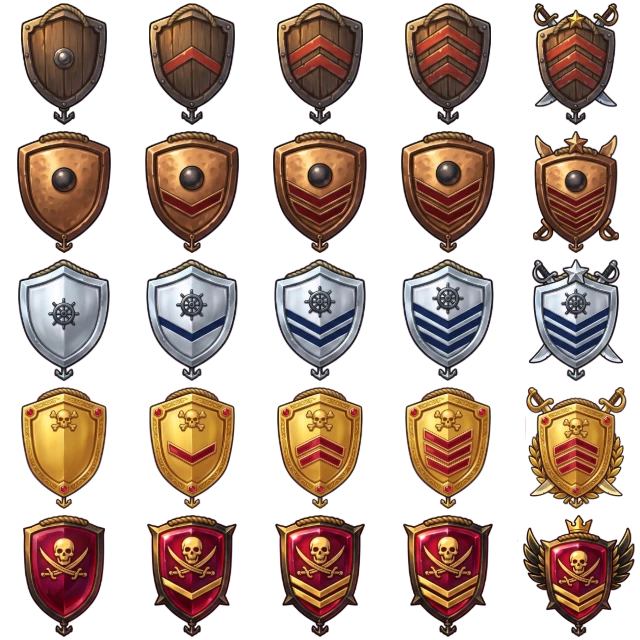
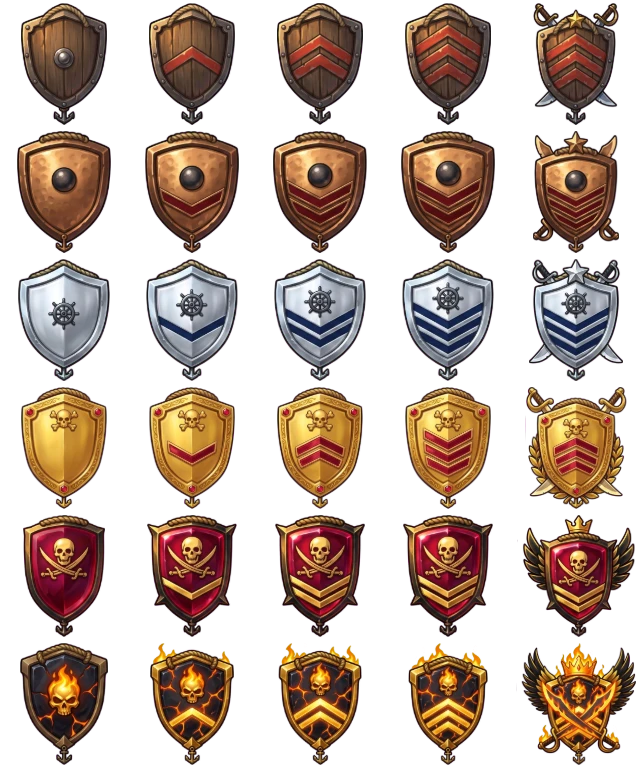
Legend-tier rank badges and rank medal collection (#199)
Claude-Session: https://claude.ai/code/session_01Mc9BhaSSsCCxzjNzAUDeqJ

diff --git a/src/main.ts b/src/main.ts
@@ -21,7 +21,7 @@ import {redeem,loadRedeemed,saveRedeemed,rewardText} from './coupons';
 import {loadLog,saveLog,addLog,daySummary,LOG_KINDS,type LogKind,type LogEntry} from './logbook';
 import {BALL_DAMAGE,CHAIN_FACTOR,FIRE_DOT_SHARE,ELITE_POINTS_PER_BALL,ELITE_MAX_LEVEL,eliteLevelEp,eliteLevelFromEp,ABILITIES,SPECIAL_AMMO,MINE,SPEED_BOOST,CONSUMABLES,AMMO_PRICES,SUPPLY_PRICES,loadArsenal,saveArsenal,type AbilityId,type SpecialAmmo,type ConsumableId,type SupplyId,type Price,priceOf} from './arsenal';
 import {loadFleetOwners,saveFleetOwners,loadRuins,markRuin,ruinLeft,ruinLabel,clearRuins} from './conquest';
-import {RIVAL_SP,battleRank,loadRivalLog,claimRivalSp,dayKey,RANK_SHEET,RANK_COLS,RANK_ICONS,rankIcon} from './battle';
+import {RIVAL_SP,battleRank,loadRivalLog,claimRivalSp,dayKey,RANK_SHEET,RANK_COLS,RANK_ICONS,rankIcon,BATTLE_RANKS} from './battle';
 import {setupChat} from './chat';
 import {SIEGE_MS,WALL_TOWERS,INNER_TOWERS,gateOf,gateLeft,siegeWindow,newSiege,loadSiege,saveSiege,siegePhase,siegeStats,siegeProgress,contribReward,earnsChest,victoryChest,ranking,loadTitle,grantTitle,HERO_TITLE,type SiegeSave} from './siege';
 import {dayEvent,spMult,xpMult,epMult,goldMult,sparkleMult,bossKillsNeeded,untilMidnight} from './events';
@@ -101,7 +101,7 @@ document.querySelector<HTMLDivElement>('#app')!.innerHTML = `
       <div class="sink-notices" id="sinkNotices" role="status" aria-live="polite"></div>
       <div class="toast" id="toast"></div>
       <div class="portal-prompt" id="portalPrompt"></div><div class="quest-overlay daily-overlay" id="dailyOverlay"><section class="daily-window"><header><div><span class="eyebrow">Her gün gel, ödül büyüsün</span><h2>GÜNLÜK ÖDÜL</h2></div><button id="closeDaily" aria-label="Kapat">×</button></header><div class="daily-grid" id="dailyGrid"></div><p class="daily-note" id="dailyNote"></p></section></div><button class="dig-prompt" id="digPrompt"><img src="/assets/icon-treasure-map-v3.webp" alt="" draggable="false"/><span>HAZİNEYİ KAZ</span><i><em id="digBar"></em></i></button><div class="event-panel" id="eventPanel"></div><div class="quest-overlay world-overlay" id="worldMapOverlay"><section class="world-scroll" aria-label="Dünya haritası"><button class="scroll-close" id="closeWorldMap" aria-label="Dünya haritasını kapat">×</button><div class="world-chart" id="worldChart"></div><div id="worldInfo" hidden></div></section></div><div class="quest-overlay" id="questOverlay"><section class="quest-log"><header><div><span class="eyebrow">Kaptanın görev defteri</span><h2>DENİZ GÖREVLERİ</h2></div><button id="closeQuests" aria-label="Görevleri kapat">×</button></header><p class="quest-intro">1 aktif görev · Tekrar süresi: ${QUEST_COOLDOWN_MS/3_600_000} saat</p><div class="quest-list" id="questList"></div></section></div>
-      <div class="captain-overlay" id="captainOverlay"><section class="captain-profile"><header><div><span class="eyebrow">Oyuncu profili</span><h2 id="captainName">KAPTAN</h2></div><button id="closeCaptain" aria-label="Kaptan profilini kapat">×</button></header><div class="captain-tab" id="captainTab-profile"><div class="captain-identity"><div class="captain-portrait"><img src="/assets/icon-hat-v2.webp" alt="" draggable="false"/><b id="captainLevel">1</b></div><div><span>AMİRAL GEMİSİ</span><strong>Yedi Deniz</strong><small>Gölgeler Denizi Kaptanı</small></div></div><div class="captain-nick" id="captainNick"></div><div class="captain-stat-grid"><article><span>TECRÜBE PUANI</span><b id="xpText">0 / 100</b><i class="xp"><em id="xpBar"></em></i></article><article><span>CAN PUANI</span><b id="hpText">100 / 100</b><i class="hp"><em id="hpBar" style="width:100%"></em></i></article><article><span>ELİT PUAN</span><b id="profileElite">0 / 100</b><i class="elite"><em id="profileEliteBar"></em></i></article><article><span>SAVAŞ PUANI</span><b id="profileBattle">0 / 500</b><i class="battle"><em id="profileBattleBar"></em></i></article></div><div class="bonus-summary" id="bonusSummary"></div><section class="captain-medals"><header><span class="eyebrow">Madalyalar ve kalıcı bonuslar</span><p class="ach-summary" id="achSummary"></p></header><div class="ach-grid" id="achGrid"></div></section></div></section></div><div class="captain-overlay" id="guildOverlay"><section class="captain-profile crew-window guild-window"><header><div><span class="eyebrow">Filo hazinesi ve ada kuleleri</span><h2>FİLO</h2></div><button id="closeGuild" aria-label="Filo penceresini kapat">×</button></header><div id="guildPanel"></div></section></div><div class="captain-overlay" id="crewOverlay"><section class="captain-profile crew-window"><header><div><span class="eyebrow">Geminin subayları</span><h2>TAYFA</h2></div><button id="closeCrew" aria-label="Tayfayı kapat">×</button></header><div id="crewPanel"></div></section></div><div class="quest-overlay" id="logOverlay"><section class="quest-log log-window"><header><div><span class="eyebrow">Kaptanın günlüğü</span><h2>SEYİR DEFTERİ</h2></div><button id="closeLog" aria-label="Seyir defterini kapat">×</button></header><div id="logPanel"></div></section></div><div class="quest-overlay" id="rankOverlay"><section class="quest-log rank-log"><header><div><span class="eyebrow">Denizlerin en iyileri</span><h2>SIRALAMALAR</h2></div><button id="closeRanks" aria-label="Sıralamaları kapat">×</button></header><div id="rankPanel"></div></section></div><div class="quest-overlay" id="couponOverlay"><section class="quest-log coupon-log"><header><div><span class="eyebrow">Etkinlik ödülleri</span><h2>KUPON KODU</h2></div><button id="closeCoupon" aria-label="Kupon penceresini kapat">×</button></header><p class="quest-intro">Etkinliklerde ve duyurularda paylaşılan kodu gir, ödülün hemen hesabına eklensin. Her kod bir kez kullanılır.</p><div class="coupon-form"><input id="couponInput" maxlength="32" placeholder="KUPON KODU" autocomplete="off" spellcheck="false"/><button id="couponRedeem">KULLAN</button></div><p class="coupon-result" id="couponResult"></p></section></div><div class="quest-overlay" id="settingsOverlay"><section class="quest-log settings-log"><header><div><span class="eyebrow">Oyun tercihleri</span><h2>AYARLAR</h2></div><button id="closeSettings" aria-label="Ayarları kapat">×</button></header><div id="settingsPanel"></div></section></div>
+      <div class="captain-overlay" id="captainOverlay"><section class="captain-profile"><header><div><span class="eyebrow">Oyuncu profili</span><h2 id="captainName">KAPTAN</h2></div><button id="closeCaptain" aria-label="Kaptan profilini kapat">×</button></header><div class="captain-tab" id="captainTab-profile"><div class="captain-identity"><div class="captain-portrait"><img src="/assets/icon-hat-v2.webp" alt="" draggable="false"/><b id="captainLevel">1</b></div><div><span>AMİRAL GEMİSİ</span><strong>Yedi Deniz</strong><small>Gölgeler Denizi Kaptanı</small></div></div><div class="captain-nick" id="captainNick"></div><div class="captain-stat-grid"><article><span>TECRÜBE PUANI</span><b id="xpText">0 / 100</b><i class="xp"><em id="xpBar"></em></i></article><article><span>CAN PUANI</span><b id="hpText">100 / 100</b><i class="hp"><em id="hpBar" style="width:100%"></em></i></article><article><span>ELİT PUAN</span><b id="profileElite">0 / 100</b><i class="elite"><em id="profileEliteBar"></em></i></article><article><span>SAVAŞ PUANI</span><b id="profileBattle">0 / 500</b><i class="battle"><em id="profileBattleBar"></em></i></article></div><div class="bonus-summary" id="bonusSummary"></div><section class="rank-medals"><header><span class="eyebrow">Savaş rütbesi madalyaları</span><p class="ach-summary" id="rankMedalSummary"></p></header><div class="rank-medal-grid" id="rankMedals"></div></section><section class="captain-medals"><header><span class="eyebrow">Madalyalar ve kalıcı bonuslar</span><p class="ach-summary" id="achSummary"></p></header><div class="ach-grid" id="achGrid"></div></section></div></section></div><div class="captain-overlay" id="guildOverlay"><section class="captain-profile crew-window guild-window"><header><div><span class="eyebrow">Filo hazinesi ve ada kuleleri</span><h2>FİLO</h2></div><button id="closeGuild" aria-label="Filo penceresini kapat">×</button></header><div id="guildPanel"></div></section></div><div class="captain-overlay" id="crewOverlay"><section class="captain-profile crew-window"><header><div><span class="eyebrow">Geminin subayları</span><h2>TAYFA</h2></div><button id="closeCrew" aria-label="Tayfayı kapat">×</button></header><div id="crewPanel"></div></section></div><div class="quest-overlay" id="logOverlay"><section class="quest-log log-window"><header><div><span class="eyebrow">Kaptanın günlüğü</span><h2>SEYİR DEFTERİ</h2></div><button id="closeLog" aria-label="Seyir defterini kapat">×</button></header><div id="logPanel"></div></section></div><div class="quest-overlay" id="rankOverlay"><section class="quest-log rank-log"><header><div><span class="eyebrow">Denizlerin en iyileri</span><h2>SIRALAMALAR</h2></div><button id="closeRanks" aria-label="Sıralamaları kapat">×</button></header><div id="rankPanel"></div></section></div><div class="quest-overlay" id="couponOverlay"><section class="quest-log coupon-log"><header><div><span class="eyebrow">Etkinlik ödülleri</span><h2>KUPON KODU</h2></div><button id="closeCoupon" aria-label="Kupon penceresini kapat">×</button></header><p class="quest-intro">Etkinliklerde ve duyurularda paylaşılan kodu gir, ödülün hemen hesabına eklensin. Her kod bir kez kullanılır.</p><div class="coupon-form"><input id="couponInput" maxlength="32" placeholder="KUPON KODU" autocomplete="off" spellcheck="false"/><button id="couponRedeem">KULLAN</button></div><p class="coupon-result" id="couponResult"></p></section></div><div class="quest-overlay" id="settingsOverlay"><section class="quest-log settings-log"><header><div><span class="eyebrow">Oyun tercihleri</span><h2>AYARLAR</h2></div><button id="closeSettings" aria-label="Ayarları kapat">×</button></header><div id="settingsPanel"></div></section></div>
       <div class="ship-overlay" id="eliteShipOverlay"><section class="ship-menu elite-ship-window"><header><div><span class="eyebrow">Filo tersanesi</span><h2>TERSANE</h2></div></header><div class="elite-ship-layout"><div class="elite-ship-grid" id="eliteShipGrid"></div><aside class="elite-ship-detail" id="eliteShipDetail"></aside></div></section></div><div class="ship-overlay" id="shipOverlay"><section class="ship-menu inv-window"><header><div class="inv-top"><img src="/assets/cannon-cast-v1.webp" alt="" draggable="false"/><span id="shipSummary"></span></div><h2>ENVANTER</h2></header><div class="inv-modes"><button data-inv-mode="cannon">TOPLAR</button><button data-inv-mode="equip">DONANIM</button></div><div class="inv-body"><aside class="inv-captain"><img src="/assets/captain-bust-v1.webp" alt="" draggable="false"/></aside><section class="inv-panel"><header><span>Depo</span><button class="inv-arrow to-depot" id="invToDepot" title="Seçili topu depoya al">⬅</button></header><div class="inv-grid" id="invDepot" data-side="depot"></div></section><section class="inv-panel"><header><button class="inv-arrow to-ship" id="invToShip" title="Seçili topu gemiye al">➡</button><span>Gemi</span></header><div class="inv-grid" id="invShip" data-side="ship"></div></section><aside class="inv-info"><header>Bilgi</header><div id="cannonRows"></div></aside></div></section></div><div class="market-overlay" id="equipShopOverlay"><section class="market-menu"><header><div><span class="eyebrow">Gemi ustası</span><h2>DONANIM</h2></div></header><div class="market-list" id="equipShopList"></div></section></div><div class="market-overlay" id="cannonShopOverlay"><section class="market-menu cannon-shop"><header><div><span class="eyebrow">Topçu dökümhanesi</span><h2>TOPLAR</h2></div></header><div class="market-list" id="cannonShopList"></div></section></div>
       <div class="development-overlay" id="developmentOverlay"><section class="development-menu"><header><div><span class="eyebrow">Kaptanın gelişim planı</span><h2>GELİŞTİRME</h2></div><button id="closeDevelopment" aria-label="Geliştirmeyi kapat">×</button></header><div id="talentPanel"><div class="dev-tree" id="upgradeList"></div><div class="upgrade-confirm" id="upgradeConfirm"></div></div></section></div>
       <div class="market-overlay" id="marketOverlay"><section class="market-menu"><header><div><span class="eyebrow">Tüccar loncası</span><h2>GÜLLELER</h2></div></header><div class="market-list" id="marketList"></div></section></div><div class="market-overlay" id="supplyOverlay"><section class="market-menu"><header><div><span class="eyebrow">Sarf malzemeleri</span><h2>MALZEMELER</h2></div></header><div class="market-list" id="supplyList"></div></section></div><div class="market-overlay" id="pearlShopOverlay"><section class="market-menu pearl-shop"><header><div><span class="eyebrow">Kaptanın hazinesi</span><h2>İNCİ HAZİNESİ</h2><p>İnciyle elit gülleler, malzemeler ve elit gemiler alınır. Büyük paketlerde bonus inci artar.</p></div></header><div class="vip-block"><div class="vip-head"><b class="vip-crown">VİP</b><div><h3>VİP ÜYELİK</h3><p>Hareket halindeyken tamir · %10 fazla tecrübe puanı</p></div><span class="vip-status" id="vipStatus"></span></div><div class="vip-packs" id="vipPacks"></div></div><h3 class="pearl-title">İNCİ PAKETLERİ</h3><div class="pearl-packs" id="pearlPacks"></div><p class="pearl-note" id="pearlNote"></p></section></div><div class="buy-confirm" id="buyConfirm"></div><div class="loadout-overlay" id="loadoutOverlay"><section class="loadout-menu"><header><div><span class="eyebrow">Sarf malzemeleri</span><h2 id="loadoutTitle">MALZEMELER</h2></div><button id="closeLoadout">×</button></header><p id="loadoutHint">Sarf malzemeleri alt sıraya yerleşir. Sürükleyip bırak ya da önce eşyaya, sonra yuvaya dokun. Kara Barut ve Kalkan yuvaya dokununca açılır/kapanır.</p><div class="loadout-items" id="loadoutItems"></div><div class="loadout-slots" id="loadoutSlots"></div></section></div>
@@ -1139,6 +1139,10 @@ function renderCrew(){
   document.querySelectorAll<HTMLButtonElement>('[data-officer-rank]').forEach(b=>b.onclick=()=>{const id=b.dataset.officerRank as OfficerId,rank=crew.officers[id]||0,cost=officerCost(rank);if(rank>=OFFICER_MAX_RANK)return;if(state.gold<cost){toast('Yeterli altının yok');return;}state.gold-=cost;crew.officers[id]=rank+1;if(!rank&&crew.active.length<officerSlots(state.level))crew.active.push(id);saveAccount();refreshBonus();renderCrew();updateUI();rewardNotice(`${OFFICERS[id].name} ${rank?`${rank+1}. rütbeye yükseldi`:'tayfaya katıldı'}`,'shop');});
   document.querySelectorAll<HTMLButtonElement>('[data-officer-toggle]').forEach(b=>b.onclick=()=>{const id=b.dataset.officerToggle as OfficerId,i=crew.active.indexOf(id);if(i>=0)crew.active.splice(i,1);else{if(crew.active.length>=officerSlots(state.level)){toast('Boş subay yuvası yok');return;}crew.active.push(id);}refreshBonus();renderCrew();});
 }
+// Profilde rütbe madalyaları: kazanılanlar parlak, sıradaki vurgulu, kalanlar soluk (SP eşiğiyle)
+function renderRankMedals(){const cur=battleRank(state.battlePoints).index;
+  ui('rankMedalSummary').textContent=`${cur+1} / ${BATTLE_RANKS.length} madalya · ${BATTLE_RANKS[cur].name}`;
+  ui('rankMedals').innerHTML=BATTLE_RANKS.map((r,i)=>`<div class="rank-medal ${i<=cur?'earned':''} ${i===cur+1?'next':''}" title="${r.name} · ${fmt(r.sp)} SP">${rankBadgeHtml(i)}<b>${r.name}</b><small>${fmt(r.sp)} SP</small></div>`).join('');}
 // HTML içinde rütbe rozeti (profil, sıralama)
 function rankBadgeHtml(rank:number){const i=rankIcon(rank),rows=Math.ceil(RANK_ICONS/RANK_COLS);
   return`<i class="rank-badge" style="background-image:url(${RANK_SHEET});background-size:${RANK_COLS*100}% ${rows*100}%;background-position:${(i%RANK_COLS)/(RANK_COLS-1)*100}% ${Math.floor(i/RANK_COLS)/Math.max(1,rows-1)*100}%"></i>`;}
@@ -1530,7 +1534,7 @@ function sinkEnemy(e:Enemy){
 const spText=()=>{const r=battleRank(state.battlePoints);return r.next?`${fmt(state.battlePoints)} / ${fmt(r.next.sp)}`:fmt(state.battlePoints);};
 const rivalLog=loadRivalLog();
 function gainSp(n:number){const before=battleRank(state.battlePoints).index;state.battlePoints+=n;
-  const r=battleRank(state.battlePoints);if(r.index>before){playLevelUp();rewardNotice(`Yeni savaş rütbesi: ${r.name}`,'battle');}return n;}
+  const r=battleRank(state.battlePoints);if(r.index>before){playLevelUp();rewardNotice(`Rütbe atladın: ${r.name} · ${r.index+1}. rütbe madalyası kazanıldı`,'battle');if(ui('captainOverlay').classList.contains('open'))renderRankMedals();}return n;}
 function defeatMonster(m:Monster){
   spawnWreck(m);
   playExplosion();const d=m.def;
@@ -1687,6 +1691,7 @@ function checkAchievements(){
 }
 function renderAchievements(){
   const b=achBonus();ui('achSummary').innerHTML=`<b>${ach.unlocked.length} / ${ACHIEVEMENTS.length}</b> madalya · Ana koleksiyon ödülü: ${bonusText(b)||'17 madalya tamamlanınca +%5 hasar ve +%5 can'}`;
+  renderRankMedals();
   ui('achGrid').innerHTML=ACHIEVEMENTS.map((d,i)=>{const done=ach.unlocked.includes(d.id),v=Math.min(ach.stats[d.stat],d.goal);
     return`<article class="ach-card ${done?'done':''}"><i class="ach-badge" style="${badgeStyle(i)}"></i><div><h4>${d.name}</h4><p>${d.desc}</p><small>${fmt(d.pearls)} İnci</small><span class="ach-bar"><em style="width:${v/d.goal*100}%"></em></span><b>${done?'✓ AÇILDI':`${v.toLocaleString('tr-TR')} / ${d.goal.toLocaleString('tr-TR')}`}</b></div></article>`;}).join('');
 }

diff --git a/src/battle.ts b/src/battle.ts
@@ -2,7 +2,7 @@
 // NPC, canavar, boss ve kule SP vermez. Aynı oyuncu bir günde en çok 3 kez SP kazandırır; sonraki batırmalar o gün SP vermez.
 // SP hiç azalmaz; rütbe toplam SP'ye göre belirlenir.
 // 30 rütbe: 6 kademe (Tahta, Bronz, Gümüş, Altın, Yakut, Efsane) × 5 basamak. Rozetler public/assets/sp-ranks-v1.webp
-// (5 sütun × kademe satırı, 128 px). Efsane kademesinin görseli gelene kadar 26–30. rütbeler son Yakut rozetini kullanır.
+// (5 sütun × 6 kademe satırı, 128 px); her rütbenin kendi rozeti (madalyası) vardır.
 export const BATTLE_RANKS:{name:string;sp:number}[]=[
   {name:'Liman Faresi',sp:0},{name:'Miço',sp:25},{name:'Güverte Çocuğu',sp:250},{name:'Halat Çeken',sp:750},{name:'Tayfa',sp:1_500},
   {name:'Kürekçi',sp:2_500},{name:'Gözcü',sp:4_000},{name:'Barutçu',sp:6_000},{name:'Topçu Yamağı',sp:8_500},{name:'Topçu',sp:11_500},
@@ -11,7 +11,7 @@ export const BATTLE_RANKS:{name:string;sp:number}[]=[
   {name:'Kıdemli Kaptan',sp:102_000},{name:'Reis',sp:118_000},{name:'Korsan Reisi',sp:136_000},{name:'Deniz Aslanı',sp:156_000},{name:'Kara Sancak',sp:180_000},
   {name:'Fırtına Lordu',sp:210_000},{name:'Deniz Ağası',sp:245_000},{name:'Yedi Denizin Korkusu',sp:285_000},{name:'Kaptan-ı Derya',sp:335_000},{name:'Öfke Efendisi',sp:400_000},
 ];
-export const RANK_SHEET='/assets/sp-ranks-v1.webp',RANK_COLS=5,RANK_ICONS=25;
+export const RANK_SHEET='/assets/sp-ranks-v1.webp',RANK_COLS=5,RANK_ICONS=30;
 export const rankIcon=(index:number)=>Math.max(0,Math.min(RANK_ICONS-1,index));
 // Her haritada aynı: rakip oyuncu başına 25 SP (Cumartesi Savaş Günü'nde 2 kat, src/events.ts)
 export const RIVAL_SP=25,RIVAL_DAILY_LIMIT=3;

diff --git a/src/rage-ui.css b/src/rage-ui.css
@@ -196,3 +196,12 @@ html.touch .sink-notices{top:96px}
 .rank-badge{display:inline-block;width:1.7em;height:1.7em;margin:0 .25em;vertical-align:middle;background-repeat:no-repeat;filter:drop-shadow(0 1px 1px #000a)}
 .rank-badge{flex:none}
 #profileBattle{display:flex;align-items:center;justify-content:flex-start;gap:4px}#profileBattle .rank-badge{width:26px;height:26px;margin:0 2px 0 0}
+/* Profil: rütbe madalyaları */
+.rank-medals{margin-top:14px;padding:14px;border:1px solid #69443c;border-radius:8px;background:#1a1416}
+.rank-medals header{display:flex;align-items:baseline;justify-content:space-between;gap:10px;margin-bottom:10px}
+.rank-medal-grid{display:grid;grid-template-columns:repeat(5,minmax(0,1fr));gap:6px}
+.rank-medal{display:flex;flex-direction:column;align-items:center;gap:2px;padding:8px 4px;border:1px solid #ffffff10;border-radius:6px;background:#120e10;text-align:center;opacity:.42;filter:grayscale(.85)}
+.rank-medal .rank-badge{width:44px;height:44px;margin:0}
+.rank-medal b{font:700 10px/1.2 Inter,sans-serif;color:#f1e3cf}.rank-medal small{font:600 9px Inter,sans-serif;color:#a88a6a}
+.rank-medal.earned{opacity:1;filter:none;border-color:#c98a4a55}
+.rank-medal.next{opacity:.8;filter:grayscale(.3);border:1px dashed #e3a35c}
